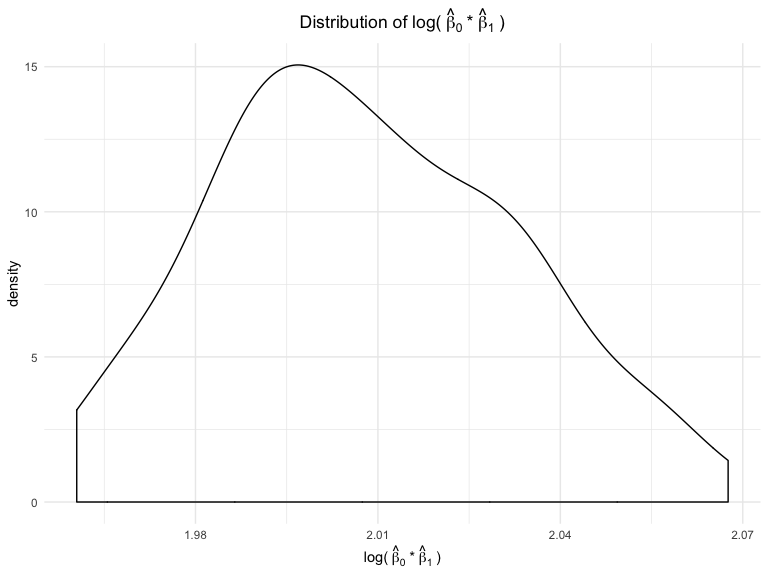
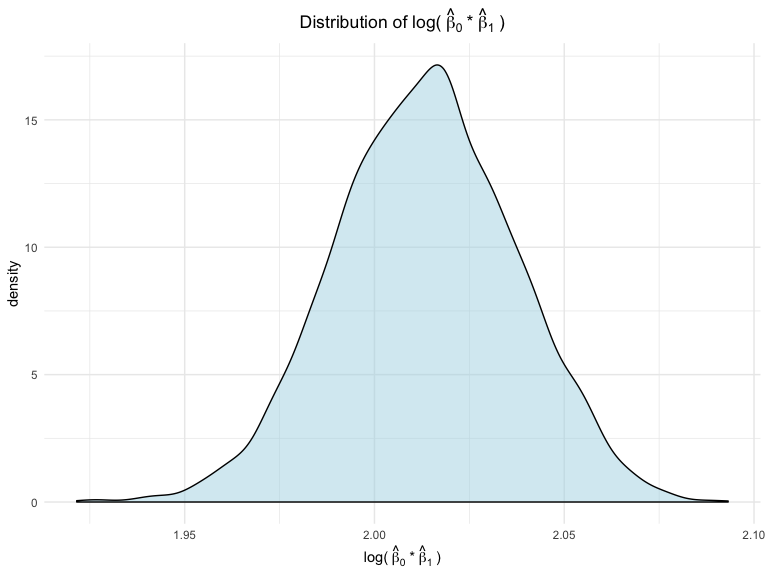
check and change bootstrap to 5000

diff --git a/p8105_hw6_xj2249.md b/p8105_hw6_xj2249.md
@@ -17,15 +17,16 @@ bw_df <-
                 malform = factor(malform, labels = c("absent","present")),
                 mrace = factor(mrace, labels = c("White","Black", "Asian", "Puerto Rican"))
                 )
+skimr::skim(bw_df)
 ```
 
 ## Model1: my model\!
 
 I’d like to put sex and the gestational age of the baby, mom’s weight
 gain during pregnancy and pre-pregnancy BMI into my model, and the
-reason is following: In my opinion, the sex and the gestational age of
-the baby will definitly influence the birthweight, so include them
-first. Then, mom’s weight gain during pregnancy and pre-pregnancy BMI
+reason is following: generally, boy and baby with longer gestational age
+will have larger birthweight and therefore sex and gestational age are
+picked. Then, mom’s weight gain during pregnancy and pre-pregnancy BMI
 may also be important, since baby gain all their nutrition from moms.
 
 **Here we go\!**
@@ -47,15 +48,6 @@ bw_df %>%
 
 <img src="p8105_hw6_xj2249_files/figure-gfm/unnamed-chunk-2-1.png" width="90%" />
 
-``` r
-        geom_hline(aes(yintercept = ))
-```
-
-    ## mapping:  
-    ## geom_hline: na.rm = FALSE
-    ## stat_identity: na.rm = FALSE
-    ## position_identity
-
 ## Model2
 
 Fit model2 with length at birth and gestational age as predictors.
@@ -76,7 +68,7 @@ bw_lm3 <-
         lm(bwt~ blength*bhead*babysex, data = .) 
 ```
 
-## cross validation
+## Cross validation
 
 ### generate training and testing datasets
 
@@ -110,7 +102,8 @@ cross_result %>%
         mutate(model = factor(model)) %>% 
         ggplot(aes(x = model, y = rmse,fill = model)) +
         geom_violin() +
-        labs( title = "Model comparison by RMSE")
+        labs( title = "Model comparison by RMSE") +
+        scale_x_discrete(labels = c("Model1","Model2","Model3"))
 ```
 
 <img src="p8105_hw6_xj2249_files/figure-gfm/unnamed-chunk-6-1.png" width="90%" />
@@ -121,7 +114,7 @@ the second model ranks second.
 
 # Problem2
 
-## point estimates
+## Point estimates
 
 ``` r
 slr = lm(tmax~tmin, data = weather_df)
@@ -137,7 +130,7 @@ point_estimates <- tibble(log_b0_b1 =
                                   pull(r.squared) 
                           )
 
-point_estimates %>%  kableExtra::kable(caption = "point estimates")
+point_estimates %>%  kableExtra::kable(caption = "point estimates",digits = 3)
 ```
 
 <table>
@@ -174,13 +167,13 @@ r\_squared
 
 <td style="text-align:right;">
 
-2.013752
+2.014
 
 </td>
 
 <td style="text-align:right;">
 
-0.9115425
+0.912
 
 </td>
 
@@ -195,7 +188,7 @@ r\_squared
 ``` r
 estimates <-
         weather_df %>% 
-        bootstrap(100) %>% 
+        bootstrap(5000) %>% 
         mutate(slr = map(.x = strap, ~lm(tmax~tmin, data = .x)),
                est1 = map(slr,broom::tidy),
                est2 = map(slr,broom::glance),
@@ -205,12 +198,12 @@ estimates <-
         select(.id,log_b0_b1,r_squared)
 ```
 
-## plot distribution of estimates
+## Plot distribution of estimates
 
 ``` r
 estimates %>% 
         ggplot(aes(x = log_b0_b1)) +
-        geom_density() +
+        geom_density(fill = "lightblue",alpha = 0.5) +
         labs( x = expression("log("~hat(beta)[0]~"*"~hat(beta)[1]~")"),
               title = expression("Distribution of log("~hat(beta)[0]~"*"~hat(beta)[1]~")"))
 ```
@@ -220,7 +213,7 @@ estimates %>%
 ``` r
 estimates %>% 
         ggplot(aes(x = r_squared)) +
-        geom_density() +
+        geom_density(fill = "lightblue",alpha = 0.5) +
         labs( x = expression(hat(r)^2),
               title = expression("Distribution of"~hat(r)^2))
 ```
@@ -326,19 +319,19 @@ log\_b0\_b1
 
 <td style="text-align:center;">
 
-1.965
+1.967
 
 </td>
 
 <td style="text-align:center;">
 
-2.055
+2.059
 
 </td>
 
 <td style="text-align:center;">
 
-0.025
+0.024
 
 </td>
 
@@ -350,19 +343,19 @@ log\_b0\_b1
 
 <td style="text-align:center;">
 
-1.965
+1.967
 
 </td>
 
 <td style="text-align:center;">
 
-2.064
+2.062
 
 </td>
 
 <td style="text-align:center;">
 
-1.965,2.064
+1.967,2.062
 
 </td>
 
@@ -378,13 +371,13 @@ r\_squared
 
 <td style="text-align:center;">
 
-0.896
+0.894
 
 </td>
 
 <td style="text-align:center;">
 
-0.925
+0.927
 
 </td>
 
@@ -408,13 +401,13 @@ r\_squared
 
 <td style="text-align:center;">
 
-0.919
+0.920
 
 </td>
 
 <td style="text-align:center;">
 
-0.904,0.919
+0.904,0.92
 
 </td>
 
@@ -424,5 +417,5 @@ r\_squared
 
 </table>
 
-Therefore, the 95% confidence interval for log\_b0\_b1 is (1.965,2.064),
-for r\_hat\_squared is (0.904,0.919).
+Therefore, the 95% confidence interval for log\_b0\_b1 is (1.967,2.062),
+for r\_hat\_squared is (0.904,0.92).
